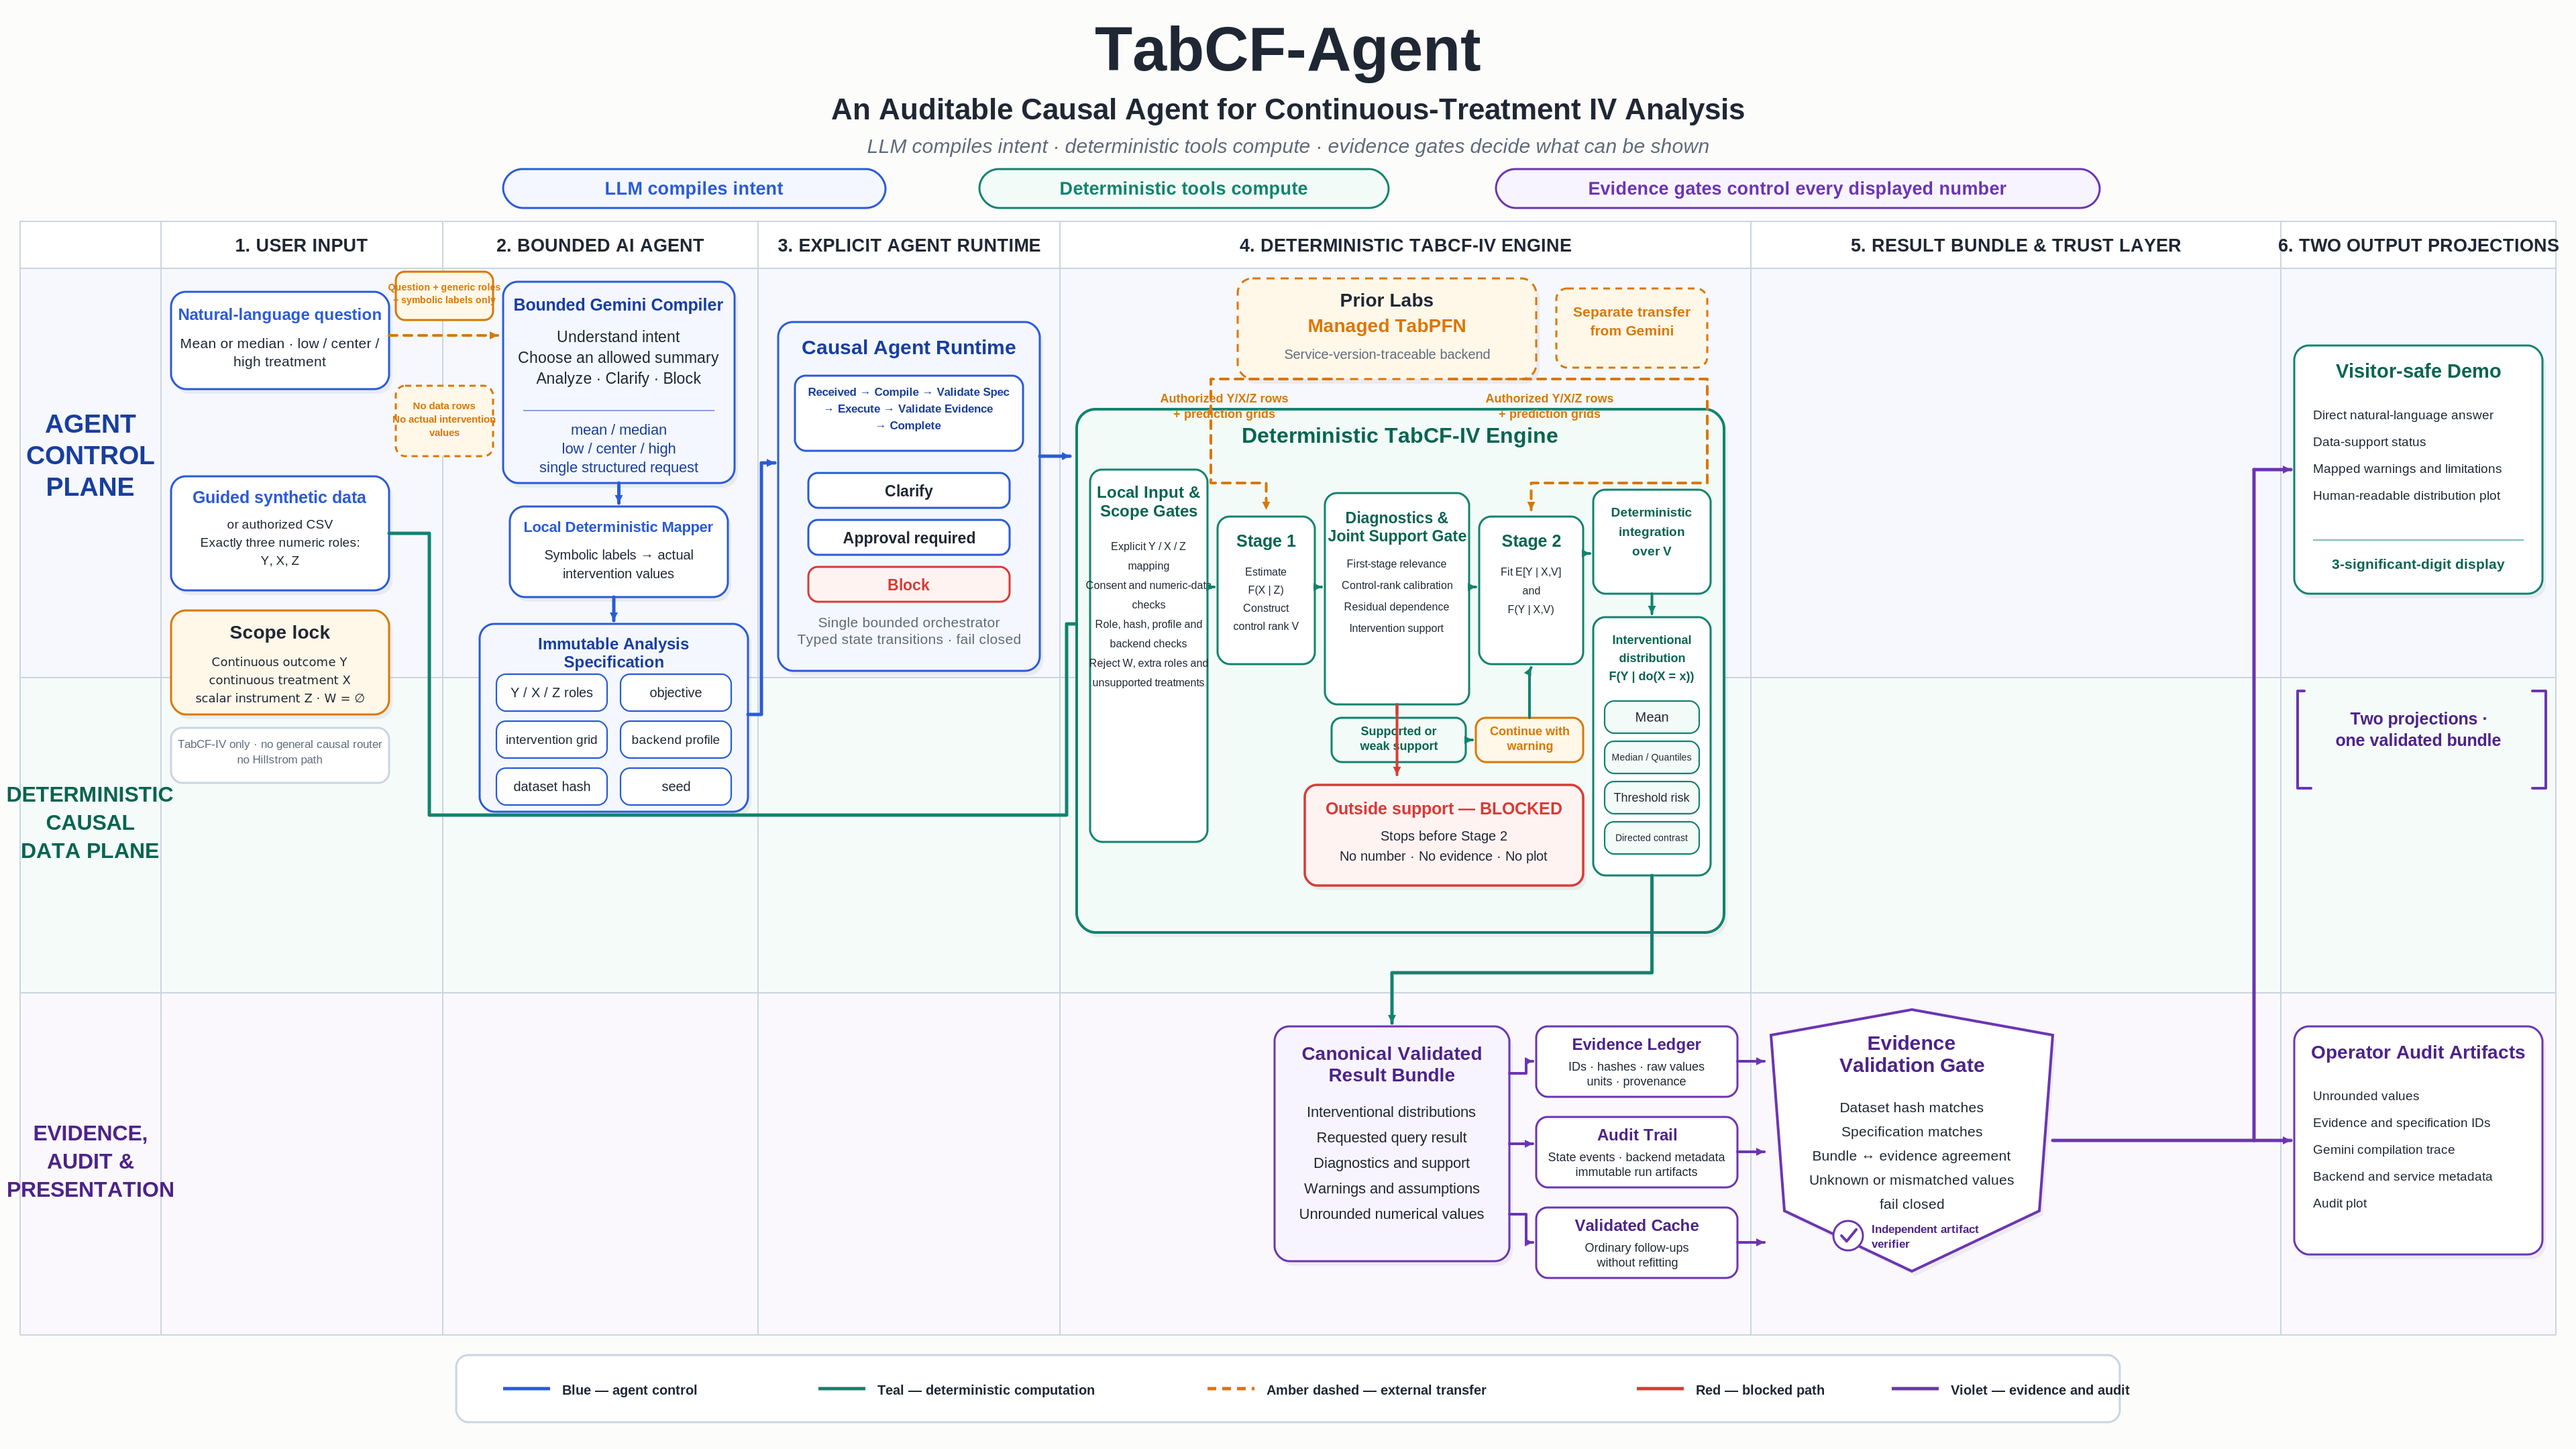
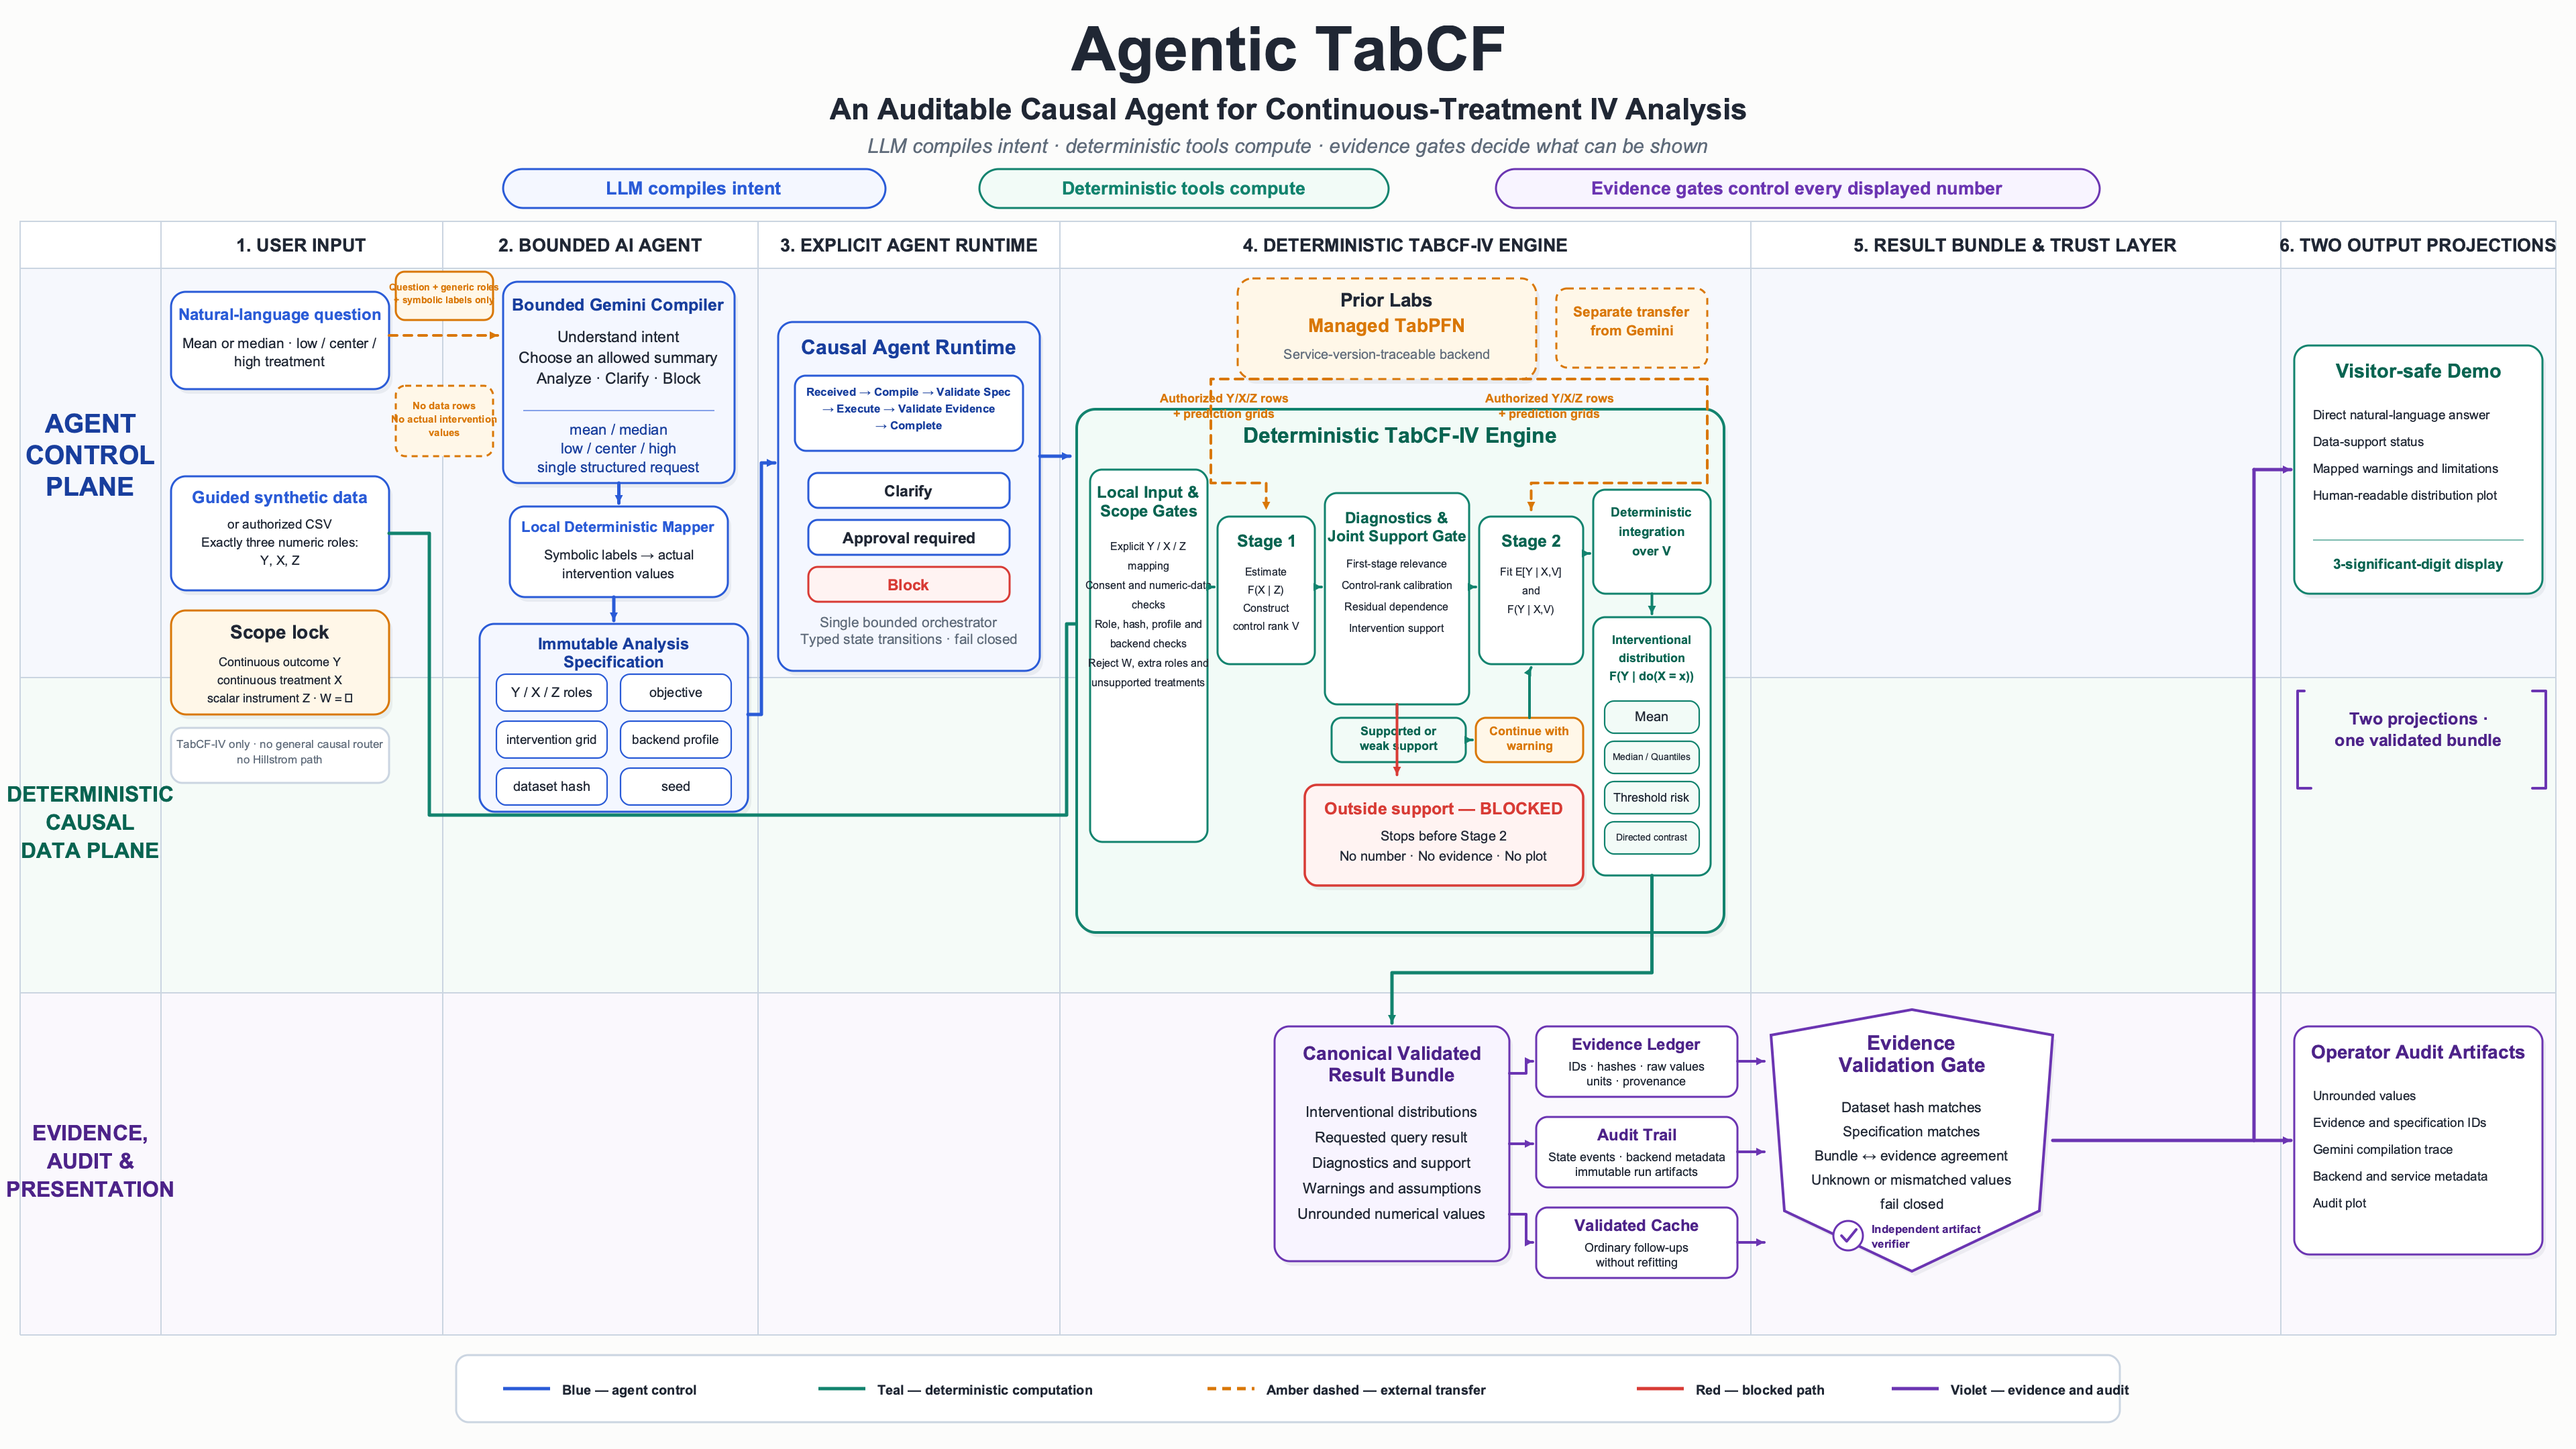
Unify Agentic TabCF public naming

diff --git a/plots/generate_tabcf_agent_overview.py b/plots/generate_tabcf_agent_overview.py
@@ -1,5 +1,5 @@
 #!/usr/bin/env python3
-"""Generate an editable SVG and a 4K PNG for the TabCF-Agent overview figure."""
+"""Generate an editable SVG and a 4K PNG for the Agentic TabCF overview figure."""
 
 from __future__ import annotations
 
@@ -376,7 +376,7 @@ def build_figure() -> svgwrite.Drawing:
         add_marker(dwg, marker_id, COLORS[color_key])
 
     # Title region: normal SVG text avoids any artificial stretching or word gaps.
-    add_text(dwg, WIDTH / 2, 105, "TabCF-Agent", size=92, weight=800, anchor="middle")
+    add_text(dwg, WIDTH / 2, 105, "Agentic TabCF", size=92, weight=800, anchor="middle")
     add_text(
         dwg,
         WIDTH / 2,

diff --git a/src/dcfa/app.py b/src/dcfa/app.py
@@ -84,9 +84,9 @@ def build_app() -> Any:
             "Install the optional UI with: python -m pip install -e '.[ui]'"
         ) from exc
 
-    with gr.Blocks(title="DCFA TabCF Analyst development demo") as app:
+    with gr.Blocks(title="Agentic TabCF development demo") as app:
         gr.Markdown(
-            "# TabCF Analyst — local development demo\n"
+            "# Agentic TabCF — local development demo\n"
             "Continuous treatment, scalar IV, continuous outcome, and no baseline covariates W. "
             "The local sklearn fallback validates workflow mechanics only and is not TabCF."
         )

diff --git a/src/dcfa/reporting.py b/src/dcfa/reporting.py
@@ -57,7 +57,7 @@ def render_markdown_report(
             "> Locked Track T result; release eligibility still requires the release validator."
         )
     lines = [
-        "# TabCF Analyst report",
+        "# Agentic TabCF report",
         "",
         boundary,
         "",

diff --git a/README.md b/README.md
@@ -1,4 +1,4 @@
-<h1 align="center">TabCF-Agent</h1>
+<h1 align="center">Agentic TabCF</h1>
 
 <p align="center">
   <strong>An auditable causal agent for continuous-treatment distributional IV analysis</strong>
@@ -21,8 +21,9 @@
   <a href="https://arxiv.org/abs/2605.05993"><strong>Read the paper</strong></a>
 </p>
 
-**TabCF-Agent** (implemented here as the `dcfa` package) is the agentic system
-built on the method introduced in our arXiv paper,
+**Agentic TabCF** is the agentic system hosted in the `DCFA` repository and
+implemented as the `dcfa` package. It builds on the method introduced in our
+arXiv paper,
 **[TabCF: Distributional Control Function Estimation with Tabular Foundation
 Models](https://arxiv.org/abs/2605.05993)**. The paper introduces TabCF for
 distributional control-function estimation; this repository adds a bounded agent
@@ -35,16 +36,16 @@ evidence.
 
 <p align="center">
   <a href="plots/tabcf_agent_overview_4k.png">
-    <img src="plots/tabcf_agent_overview_editable.svg" alt="TabCF-Agent architecture: bounded language compilation, explicit agent runtime, deterministic TabCF-IV engine, evidence validation, and visitor or audit outputs" width="100%">
+    <img src="plots/tabcf_agent_overview_editable.svg" alt="Agentic TabCF architecture: bounded language compilation, explicit agent runtime, deterministic TabCF-IV engine, evidence validation, and visitor or audit outputs" width="100%">
   </a>
 </p>
 
 <p align="center"><sub>Click the architecture figure to open the 4K version. The editable SVG and deterministic generator are in <a href="plots/">plots/</a>.</sub></p>
 
-## Why TabCF-Agent?
+## Why Agentic TabCF?
 
 Many causal-agent demos blur together language-model reasoning, statistical
-estimation, and presentation. TabCF-Agent keeps those responsibilities separate:
+estimation, and presentation. Agentic TabCF keeps those responsibilities separate:
 
 1. **A bounded compiler** turns a natural-language request into an immutable,
    typed analysis specification. For an uploaded CSV, Gemini sees the question or conversation,
@@ -195,7 +196,7 @@ The repository separates three questions that must not be merged into one claim:
 
 Hillstrom is an isolated randomized-policy evaluation environment. It is **not a
 TabCF validation dataset**, is never encoded as a continuous-treatment problem,
-and is not exposed through the public TabCF Analyst workflow.
+and is not exposed through the public Agentic TabCF workflow.
 
 ## What is implemented
 

diff --git a/plots/README_tabcf_agent_figure.md b/plots/README_tabcf_agent_figure.md
@@ -1,4 +1,4 @@
-# TabCF-Agent overview figure
+# Agentic TabCF overview figure
 
 This package contains a reproducible, editable version of the architecture figure.
 
